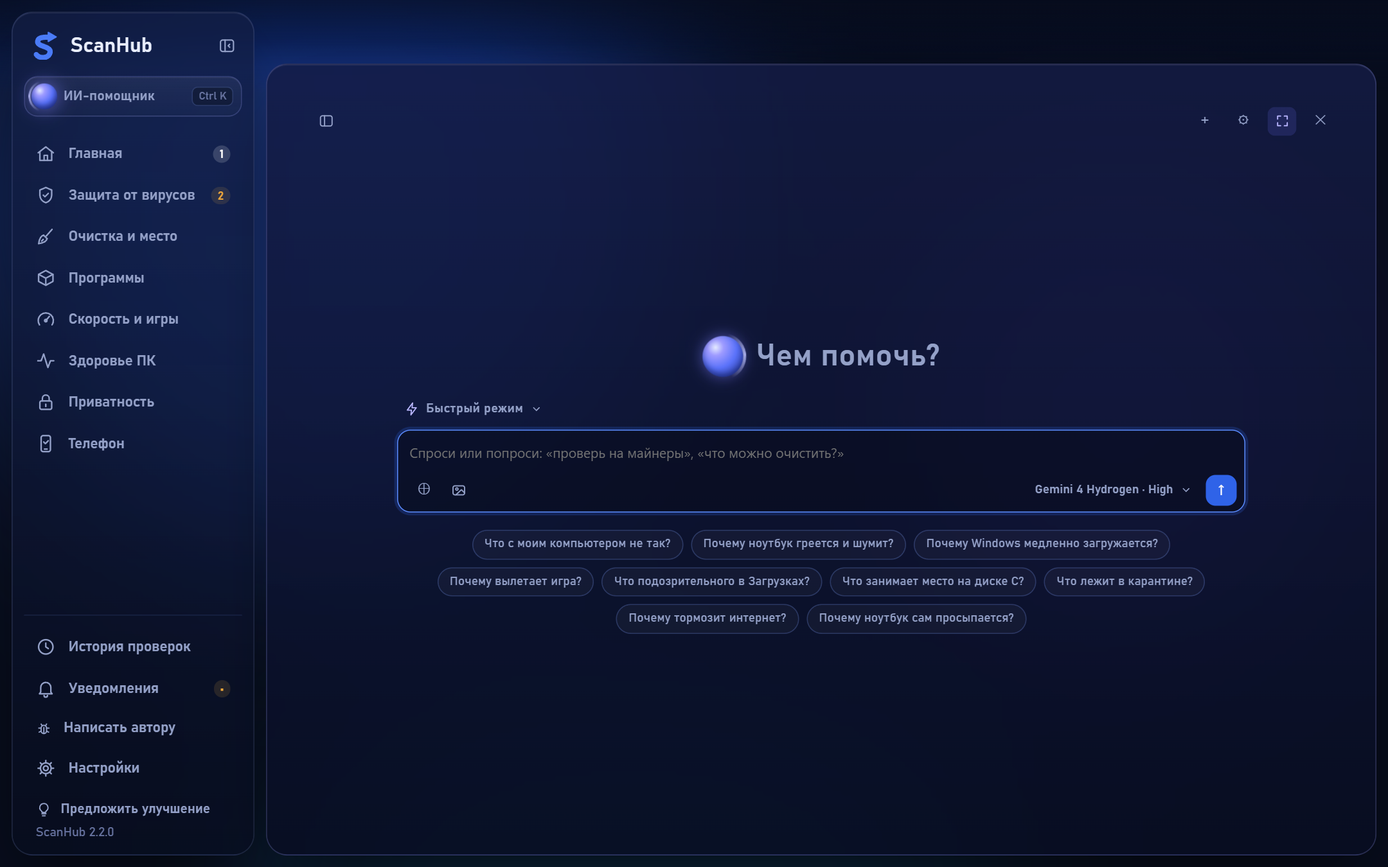
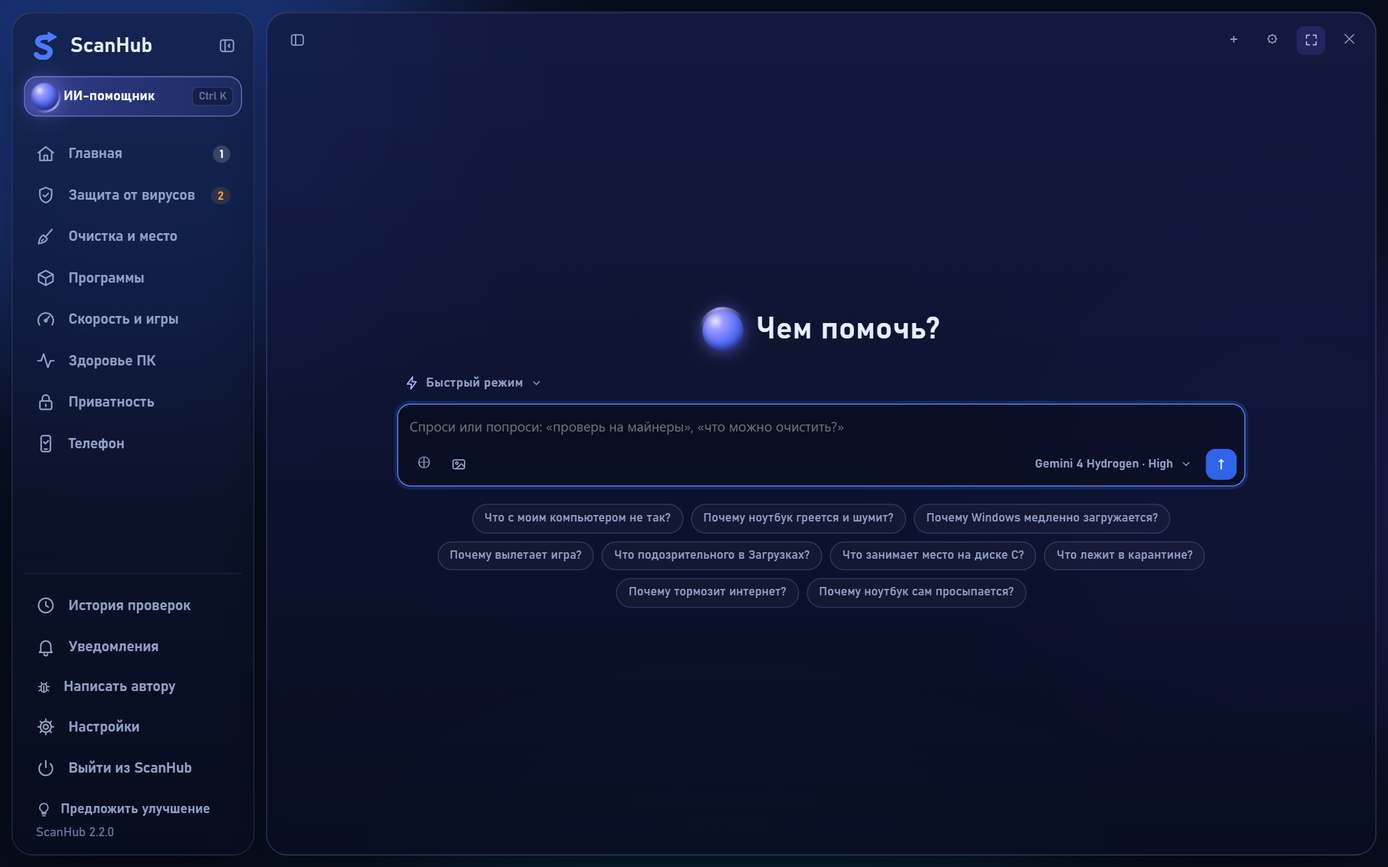
2.2: агент на всё окно — карточка на всю высоту рядом с меню, кнопки окна в её правом верхнем углу, окно можно тянуть за шапку агента; в README и истории — «ИИ-агент»; новые скриншоты агента

diff --git a/ui/app.css b/ui/app.css
@@ -1548,7 +1548,7 @@ body{background:transparent}
 @keyframes bootOut{to{opacity:0;visibility:hidden}}
 body.boot-quick .boot{animation:bootOut .2s ease forwards}
 body.boot-quick .boot *{animation:none;stroke-dashoffset:0;transform:none;opacity:1}
-body.boot-full .layout{animation:layoutIn .75s var(--ease) .9s both}
+body.boot-full .layout{animation:layoutIn .75s var(--ease) .9s backwards}
 @keyframes layoutIn{from{opacity:0;filter:blur(14px);transform:scale(.985)}}
 
 /* ---------- каркас: меню — парящая стеклянная карточка, ширина плавно меняется при сворачивании */
@@ -1693,10 +1693,10 @@ body.side-mini main{max-width:1500px}
   background-color:rgba(150,160,255,.28)}
 .ai-body::-webkit-scrollbar-thumb:hover{background-color:rgba(170,175,255,.55)}
 
-/* ---------- 2.2 помощник на весь экран: остаются шапка окна (кнопки окна, режим) и разговор */
+/* ---------- 2.2 помощник на весь экран: симметричная карточка на всю высоту рядом с меню, кнопки окна в правом верхнем углу карты */
 body.ai-full.ai-open .side,body.ai-full.ai-open main{visibility:hidden}
-body.ai-full .ai-panel{left:12px;width:auto;top:calc(var(--hdr-h,57px) + 4px);z-index:30}
-@media (max-width:1179px){ body.ai-full .ai-panel{top:8px;left:8px;right:8px;bottom:8px} }
+body.ai-full .ai-panel{left:12px;right:12px;top:12px;bottom:12px;width:auto;z-index:30}
+@media (max-width:900px){ body.ai-full .ai-panel{top:8px;left:8px;right:8px;bottom:8px} }
 body.ai-full .ai-body > *,body.ai-full .ai-input .ai-box,body.ai-full .ai-ctx{max-width:880px;width:100%;margin-inline:auto}
 body.ai-full .ai-body{padding-inline:24px}
 #aiFull.on{color:#B9B6FF;background:rgba(110,115,255,.16)}
@@ -1742,10 +1742,13 @@ header::before{left:calc(-1 * var(--sw) - 2px)}
 body.ai-full.ai-open .side{visibility:visible}
 body.ai-full.ai-open main{visibility:hidden}
 @media (min-width:901px){
-  body.ai-full .ai-panel{left:calc(var(--sw) + 12px);right:12px;top:calc(var(--hdr-h,57px) + 4px);bottom:12px;width:auto;z-index:30}
+  body.ai-full .ai-panel{left:calc(var(--sw) + 12px);right:12px;top:12px;bottom:12px;width:auto;z-index:30}
   body.ai-full.side-hidden .ai-panel{left:12px}
   body.ai-full.ai-open.side-hidden .side{display:none}
   body.ai-full.ai-open.side-hidden .layout{grid-template-columns:0 minmax(0,1fr)}
+}
+@media (max-width:900px){
+  body.ai-full .ai-panel{top:8px;left:8px;right:8px;bottom:8px;width:auto}
 }
 #aiSideTgl{display:none}
 @media (min-width:901px){ body.ai-full #aiSideTgl{display:inline-grid} }
@@ -1756,6 +1759,7 @@ body.ai-full.ai-open .side .nav-main a.nav.on .ico{color:inherit}
 .side-ai.on{color:#fff;border-color:rgba(160,165,255,.55);background:linear-gradient(90deg,rgba(110,115,255,.32),rgba(110,115,255,.1))}
 
 /* пустой разговор: заголовок, поле и подсказки — по центру окна, ничего лишнего */
+.ai-panel.empty{padding:0;color:var(--text);text-align:initial}
 .ai-panel.empty .ai-head{border-bottom-color:transparent}
 .ai-panel.empty .ai-head .ai-mark,.ai-panel.empty .ai-title{visibility:hidden}
 .ai-panel.empty .ai-body{flex:0 0 auto;margin-top:auto;overflow:visible;padding-bottom:10px}
@@ -1797,12 +1801,23 @@ body.ai-full .ai-above{max-width:880px;margin:0 auto 8px;width:100%}
 .ai-pop .ai-pop-foot{margin-top:4px;border-top:1px solid var(--line);border-radius:0 0 9px 9px;color:var(--muted);font-size:12.5px}
 .ai-pop::-webkit-scrollbar{width:8px} .ai-pop::-webkit-scrollbar-thumb{border:2px solid transparent;background-clip:padding-box;border-radius:8px;background-color:rgba(150,160,255,.28)}
 
-/* ---------- 2.2 помощник на всё окно: меню скрыто — одна колонка (а не «нулевая» слева), шапка без лишнего */
+/* ---------- 2.2 помощник на всё окно: меню скрыто — одна колонка (а не «нулевая» слева), шапка не мешает карточке, кнопки окна встроены в её правый верхний угол */
 @media (min-width:901px){
   body.ai-full.ai-open.side-hidden .layout{grid-template-columns:minmax(0,1fr)}
   body.ai-full.ai-open.side-hidden header::before{left:0}
 }
-body.ai-full.ai-open header .seg,body.ai-full.ai-open header .dev-only{visibility:hidden}
+body.ai-full.ai-open .layout{animation:none}
+body.ai-full.ai-open header{pointer-events:none}
+body.ai-full.ai-open header::before{display:none}
+body.ai-full.ai-open header > :not(.wincaps){visibility:hidden}
+body.ai-full.in-host:has(#aiPanel:not([hidden]):not(.closing)) header{z-index:35;isolation:auto}
+body.ai-full.in-host:has(#aiPanel:not([hidden]):not(.closing)) .wincaps{position:fixed;top:13px;right:13px;margin:0;height:54px;z-index:35;pointer-events:auto;border-radius:0 21px 0 0;overflow:hidden;align-items:stretch}
+body.ai-full.in-host:has(#aiPanel:not([hidden]):not(.closing)) .wincaps::before{content:"";align-self:center;width:1px;height:20px;background:var(--glass-line);margin:0 4px 0 0}
+body.ai-full.in-host:has(#aiPanel:not([hidden]):not(.closing)) .wincaps button{width:44px;height:54px}
+body.ai-full.in-host .ai-head{padding-right:158px}
+@media (max-width:900px){
+  body.ai-full.in-host:has(#aiPanel:not([hidden]):not(.closing)) .wincaps{top:9px;right:9px}
+}
 /* выход из настроек помощника — заметной кнопкой сверху */
 .ai-back{display:inline-flex;align-items:center;gap:8px;align-self:flex-start;padding:7px 14px 7px 10px;border-radius:10px;
   background:rgba(110,115,255,.14);border:1px solid rgba(160,165,255,.35);color:#DCDBFF;font:500 14px var(--din)}

diff --git a/ui/hero.js b/ui/hero.js
@@ -231,7 +231,7 @@ const HOST = window.chrome?.webview;
 if (HOST) {
   document.body.classList.add("in-host");
   $("#wincaps").hidden = false;
-  const free = e => e.target.closest("header") && !e.target.closest("button, a, input, select, textarea, label, .seg, .wincaps");
+  const free = e => (e.target.closest("header") || (document.body.classList.contains("ai-full") && e.target.closest(".ai-head"))) && !e.target.closest("button, a, input, select, textarea, label, .seg, .wincaps");
   document.addEventListener("mousedown", e => {
     if (e.button !== 0 || !free(e)) return;
     e.preventDefault();

diff --git a/README.md b/README.md
@@ -25,13 +25,13 @@ Every release also has **SHA256SUMS.txt** with the checksums of both archives, s
 |---|---|
 | ![Virus protection](docs/screenshots/en/2-scan.png) | ![Windows protection](docs/screenshots/en/3-security.png) |
 
-![AI assistant: ask in plain words or tell it to check something — Ctrl+K](docs/screenshots/en/5-assistant.png)
+![AI agent: ask in plain words or tell it to check something — Ctrl+K](docs/screenshots/en/5-assistant.png)
 
 ## What it does
 
 - **A home screen you can read in a second (2.0):** a live shield shows the real state: “all good”, “something to fix” or “threat found”. During a scan a beam runs across it and the ring fills up with the percentage. Next to it: Windows stability, CPU, memory and free space with charts; click one to see detailed load. Below that, “What's worth doing” and quick actions.
 - **Its own window (2.0.5):** ScanHub opens in a dedicated window with no browser chrome. The window buttons sit in its dark header, and its size and position are remembered. If the WebView2 engine is missing (Windows 10), it opens through Edge instead.
-- **Final AI verdict (2.0.9):** after a file scan, a deep check or an ultra check, the built-in assistant reads the combined result of all scanners, searches the web for the file (name, SHA-256, what people write about it, with links) and gives a short answer: “Safe to open” or “Don't open it”. Under the verdict there is a chat: ask what the file is, what to do next, or tell the assistant to do it for you.
+- **Final AI verdict (2.0.9):** after a file scan, a deep check or an ultra check, the built-in AI agent reads the combined result of all scanners, searches the web for the file (name, SHA-256, what people write about it, with links) and gives a short answer: “Safe to open” or “Don't open it”. Under the verdict there is a chat: ask what the file is, what to do next, or tell the agent to do it for you.
 - **AI second opinion:** “Copy summary for AI” after a file scan (signature, hashes, where it was downloaded from, every scanner with details), after an ultra check, plus “Full PC summary for AI” (28 sections about the whole PC). Paste it into Claude, ChatGPT or Gemini and you get a short answer (“dangerous or not, and what to do” in a few words) and a detailed one with facts. Personal data is hidden by default.
 - **One-click RAM cleanup** right on the home screen, like Mem Reduct.
 - **Sections by task:** “Virus protection”, “Cleanup & space”, “Programs”, “Speed & games”, “PC health”, “Privacy”, “Phone”. Everything is grouped by what you want to do, not by how the program is built.
@@ -51,13 +51,13 @@ Every release also has **SHA256SUMS.txt** with the checksums of both archives, s
 - **One-button update:** when a new version comes out, an “Update” button appears on the home screen. ScanHub downloads it from here, verifies the checksum and installs it over the old one; your keys and history stay.
 - **Glass interface with smooth motion (2.2):** the menu collapses into a strip of icons, load numbers roll smoothly to new values; with animations turned off in Windows there's no motion.
 - **Russian and English interface:** the switch is at the very top of ⚙ Settings.
-- **AI assistant (optional):** the first item of the side menu; **Ctrl+K** opens it from any page. The “✦ How to fix” button on any finding (short: the cause, the steps, and a button for an automatic fix if ScanHub can do it itself, with confirmation) and the “Ask about your PC” chat: the assistant looks at Windows logs, crashes, sensors, disk space, protection, browsers, quarantine and, if you allow it, files and folders. It changes nothing on its own, it only reads and advises. If ScanHub can fix the problem itself, the answer gets action buttons and **“✦ Do it for me”**: the assistant runs just those actions one by one and checks the result, through the same checks and UAC prompts as the ScanHub buttons, with an entry in “What ScanHub changed”. Pick your model: free Gemini; **Claude, ChatGPT or Gemini through your own subscription** (ScanHub launches the official Claude Code, Codex or Antigravity from Google that you are already signed in to; in Antigravity you can choose the model, Gemini Hydrogen, Argon, Flash and others from your subscription, and the thinking level from Low to XHigh; requests count against your subscription limits; the agent has no command line, it gets data through ScanHub's tools and may search the web for references, which you can turn off in the assistant settings); by API key: Claude, OpenAI, OpenRouter, DeepSeek; or local Ollama.
+- **Built-in AI agent (optional):** the first item of the side menu (“AI assistant”); **Ctrl+K** opens it from any page. The “✦ How to fix” button on any finding (short: the cause, the steps, and a button for an automatic fix if ScanHub can do it itself, with confirmation) and the “Ask about your PC” chat: the agent inspects Windows logs, crashes, sensors, disk space, protection, browsers, quarantine and, if you allow it, files and folders; it can also run safe read-only scans (miner search, Defender quick scan, junk check, startup, PC health, hardware) right from the chat and answer from the results. It never changes system settings on its own — it only reads, runs checks, and proposes fixes. If ScanHub can fix the problem itself, the answer gets action buttons and **“✦ Do it for me”**: the agent runs just those approved actions one by one and verifies the result, through the same checks and UAC prompts as ScanHub buttons, with an entry in “What ScanHub changed”. Pick your model: free Gemini; **Claude, ChatGPT or Gemini through your own subscription** (ScanHub launches the official Claude Code, Codex or Antigravity from Google that you are already signed in to; in Antigravity you can choose the model, Gemini Hydrogen, Argon, Flash and others from your subscription, and the thinking level from Low to XHigh; requests count against your subscription limits; the agent has no command line, it gets data through ScanHub's tools and may search the web for references, which you can turn off in the agent settings); by API key: Claude, OpenAI, OpenRouter, DeepSeek; or local Ollama.
 
 ## Installation
 
 1. Windows 10 or 11, 64-bit.
-2. Download **[ScanHub-Windows.zip](../../releases/latest/download/ScanHub-Windows.zip)** (about 26 MB) and unpack it into any folder, for example `D:\ScanHub`.
-3. Run **ScanHub.exe**. The window opens in Microsoft Edge (app mode). The home screen has a “Create shortcut” button for the desktop and the Start menu.
+2. Download **[ScanHub-Windows.zip](../../releases/latest/download/ScanHub-Windows.zip)** (about 32 MB) and unpack it into any folder, for example `D:\ScanHub`.
+3. Run **ScanHub.exe**. ScanHub opens in its own dedicated window (or Microsoft Edge if WebView2 isn't available). The home screen has a “Create shortcut” button for the desktop and the Start menu.
 4. On the home screen click **“Prepare”**. ScanHub downloads the missing scanners and their databases from the official sites (about 1 GB, 5–15 minutes, once). Without this only Defender and the signature check work.
 
 **If Windows says “Windows protected your PC”.** ScanHub.exe has no digital signature (it costs money; open source projects can get one for free through the SignPath Foundation, which is planned), so SmartScreen warns about any new program. Click **“More info” → “Run anyway”**; you only need to do it once. ScanHub.exe is a tiny launcher: its source is in [`launcher/ScanHub.cs`](launcher/ScanHub.cs), and all it does is open `scanhub.py` with the bundled Python.
@@ -78,13 +78,13 @@ Optional:
 | The file itself | VirusTotal or Filescan | only with the separate “Upload the file for analysis” button, with a warning |
 | Names and versions of npm/pip packages | OSV.dev (Google) | only in the “npm and pip packages” check |
 | A found API key (to check whether it is still active) | the service that key belongs to | only in the TruffleHog “Only active keys” mode |
-| The data the AI assistant looks at (logs, file details; contents of text files only if you allowed it), without your user name, computer name, email and keys | the service you chose: Google Gemini, Anthropic (Claude), OpenAI (ChatGPT), OpenRouter or DeepSeek, directly or through Claude Code / Codex / Antigravity | only if you picked a cloud model and asked a question; with Ollama nothing leaves your PC |
+| The data the AI agent looks at (logs, file details; contents of text files only if you allowed it), without your user name, computer name, email and keys | the service you chose: Google Gemini, Anthropic (Claude), OpenAI (ChatGPT), OpenRouter or DeepSeek, directly or through Claude Code / Codex / Antigravity | only if you picked a cloud model and asked a question; with Ollama nothing leaves your PC |
 | Update requests | GitHub and the scanners' official sites | update checks and database downloads |
 | Nothing about the phone, only tool downloads: Google Platform Tools (if adb is not installed yet) and the list of stalkerware apps | dl.google.com, GitHub | during a phone check; hashes of apps not from a store go to VirusTotal if you entered a key |
 | An anonymous “ScanHub ran today” ping: random copy id, version, language, Windows build number | the ScanHub author (Cloudflare Worker) | once a day, **only if you agreed** (card on the home screen or ⚙ Settings) |
 | An error report or an idea: only what you saw in the window before sending; the ScanHub error log only if you tick the box | the ScanHub author on Telegram (through a Cloudflare Worker) | on “Bug or idea?” → “Send” |
 | The ids of your messages to the author and the secrets for them, to fetch the author's reply | the ScanHub author (Cloudflare Worker) | every half hour while ScanHub is open, and only if you wrote to the author |
-| The assistant's search queries (a program name, an error code; no paths or user name) and the pages it reads | DuckDuckGo or Bing, sites from the results; the winget catalog | only if internet access is enabled in the assistant settings and the assistant needs a reference |
+| The AI agent's search queries (a program name, an error code; no paths or user name) and the pages it reads | DuckDuckGo or Bing, sites from the results; the winget catalog | only if internet access is enabled in the agent settings and the agent needs a reference |
 
 ScanHub sends nothing else anywhere: no ads, no accounts, no hidden analytics. The launch counter works only if you agreed to it, and an error report goes out only when you press “Send”. History, logs and settings are stored only on your computer, in the `data` folder (API keys are encrypted by Windows for your account). To clear history and logs: ⚙ Settings → “Clear scan history and logs”.
 

diff --git a/CHANGELOG.ru.md b/CHANGELOG.ru.md
@@ -6,12 +6,12 @@
 
 ## 2.2.0
 
-**ИИ-помощник делает сам**
-- Пиши простыми словами — «проверь на майнеры», «что можно очистить?», «проверь автозагрузку» — и помощник сам запускает проверку ScanHub (поиск майнеров, быстрая проверка Defender, поиск мусора, автозагрузка, здоровье ПК, комплектующие) и отвечает по её итогу. Всё, что меняет компьютер (например, очистку мусора), он только предлагает — выполнится после твоей кнопки «Сделай сам».
+**Встроенный ИИ-агент: сам проверяет и исправляет**
+- Пиши простыми словами — «проверь на майнеры», «что можно очистить?», «проверь автозагрузку» — и ИИ-агент сам запускает проверку ScanHub (поиск майнеров, быстрая проверка Defender, поиск мусора, автозагрузка, здоровье ПК, комплектующие) и отвечает по её итогу. Всё, что меняет компьютер (например, очистку мусора), он только предлагает — выполнится после твоей кнопки «Сделай сам».
 - Фото и скриншоты: приложи картинку к вопросу кнопкой или просто вставь её в поле — Ctrl+V (до 4 штук). Работает с Gemini, Claude, ChatGPT, OpenRouter, Ollama, Claude Code, Codex и Antigravity; для моделей, которые не видят картинки, кнопки нет.
 - Переключатель «Быстро / Точно» над полем ввода. «Быстро» (по умолчанию) — та же модель, но с коротким размышлением, меньше шагов и без поиска в интернете, пока сам не попросишь: простые вопросы — за секунды. «Сколько весит программа» теперь один шаг: в списке программ видны их папка и размер.
-- Из меню или по **Ctrl+K** помощник открывается на всё окно, как отдельный раздел: «Чем помочь?», поле по центру, подсказки под ним, режим и модель — выпадающими списками. Меню остаётся слева, кнопкой его можно убрать совсем. «✦ Как решить» у находок по-прежнему открывает его панелью сбоку.
-- Разговор больше не мигает и не прыгает вниз, пока помощник отвечает; тонкий ползунок. Настройки помощника открываются с начала с заметной кнопкой «← К разговору»; ⚙ ещё раз или Esc тоже возвращают.
+- Из меню или по **Ctrl+K** окно агента открывается во всю высоту симметрично рядом с меню: «Чем помочь?», поле по центру, подсказки под ним, режим и модель — выпадающими списками. Меню остаётся слева, кнопкой его можно убрать совсем. «✦ Как решить» у находок по-прежнему открывает его панелью сбоку.
+- Разговор больше не мигает и не прыгает вниз, пока агент отвечает; тонкий ползунок. Настройки агента открываются с начала с заметной кнопкой «← К разговору»; ⚙ ещё раз или Esc тоже возвращают.
 
 **Новый вид: матовое стекло**
 - Панели — матовое стекло над медленно плывущим светом, боковое меню парит отдельной карточкой. Оно сворачивается в полоску значков и запоминает выбор; подсветка раздела переезжает к нажатому пункту.

diff --git a/CHANGELOG.md b/CHANGELOG.md
@@ -6,12 +6,12 @@ The text of the newest version's section goes into the GitHub release descriptio
 
 ## 2.2.0
 
-**The AI assistant does things for you**
-- Ask in plain words — "check for miners", "what can I clean up?", "check startup" — and the assistant runs the ScanHub check itself (miner search, Defender quick scan, junk search, startup, PC health, hardware) and answers from the result. Anything that changes the PC (for example cleaning junk) it only proposes, and it runs only after you press "Do it for me".
+**Built-in AI agent that runs checks and fixes for you**
+- Ask in plain words — "check for miners", "what can I clean up?", "check startup" — and the AI agent runs the ScanHub check itself (miner search, Defender quick scan, junk search, startup, PC health, hardware) and answers from the result. Anything that changes the PC (for example cleaning junk) it only proposes, and it runs only after you press "Do it for me".
 - Photos and screenshots: attach a picture to the question with the button or just paste it with Ctrl+V (up to 4). Works with Gemini, Claude, ChatGPT, OpenRouter, Ollama, Claude Code, Codex and Antigravity; for models that can't see pictures the button is hidden.
 - Fast / Thorough switch above the input. Fast (the default) uses the same model with short thinking, fewer steps and no web search unless you ask for it, so simple questions take seconds. "How big is this program" is now one step: the program list shows each app's folder and size.
-- Opened from the menu or with **Ctrl+K**, the assistant takes the whole window like a section of its own: "How can I help?", the input in the middle, suggested questions below, the mode and the model as drop-down lists. The menu stays on the left, and a button hides it completely. "✦ How to fix" next to a finding still opens it as a side panel.
-- The chat no longer flickers or jumps to the bottom while the assistant is answering, and has a slim scrollbar. Settings open from the top with a clear "← Back to the chat" button; ⚙ again or Esc also gets you back.
+- Opened from the menu or with **Ctrl+K**, the agent fills the full panel next to the menu symmetrically from top to bottom: "How can I help?", the input in the middle, suggested questions below, the mode and the model as drop-down lists. The menu stays on the left, and a button hides it completely. "✦ How to fix" next to a finding still opens it as a side panel.
+- The chat no longer flickers or jumps to the bottom while the agent is answering, and has a slim scrollbar. Agent settings open from the top with a clear "← Back to the chat" button; ⚙ again or Esc also gets you back.
 
 **New look: frosted glass**
 - Panels are frosted glass over slowly drifting light, and the side menu floats as a separate card. It collapses into a strip of icons and remembers your choice; the highlight of the current section slides to the item you clicked.
